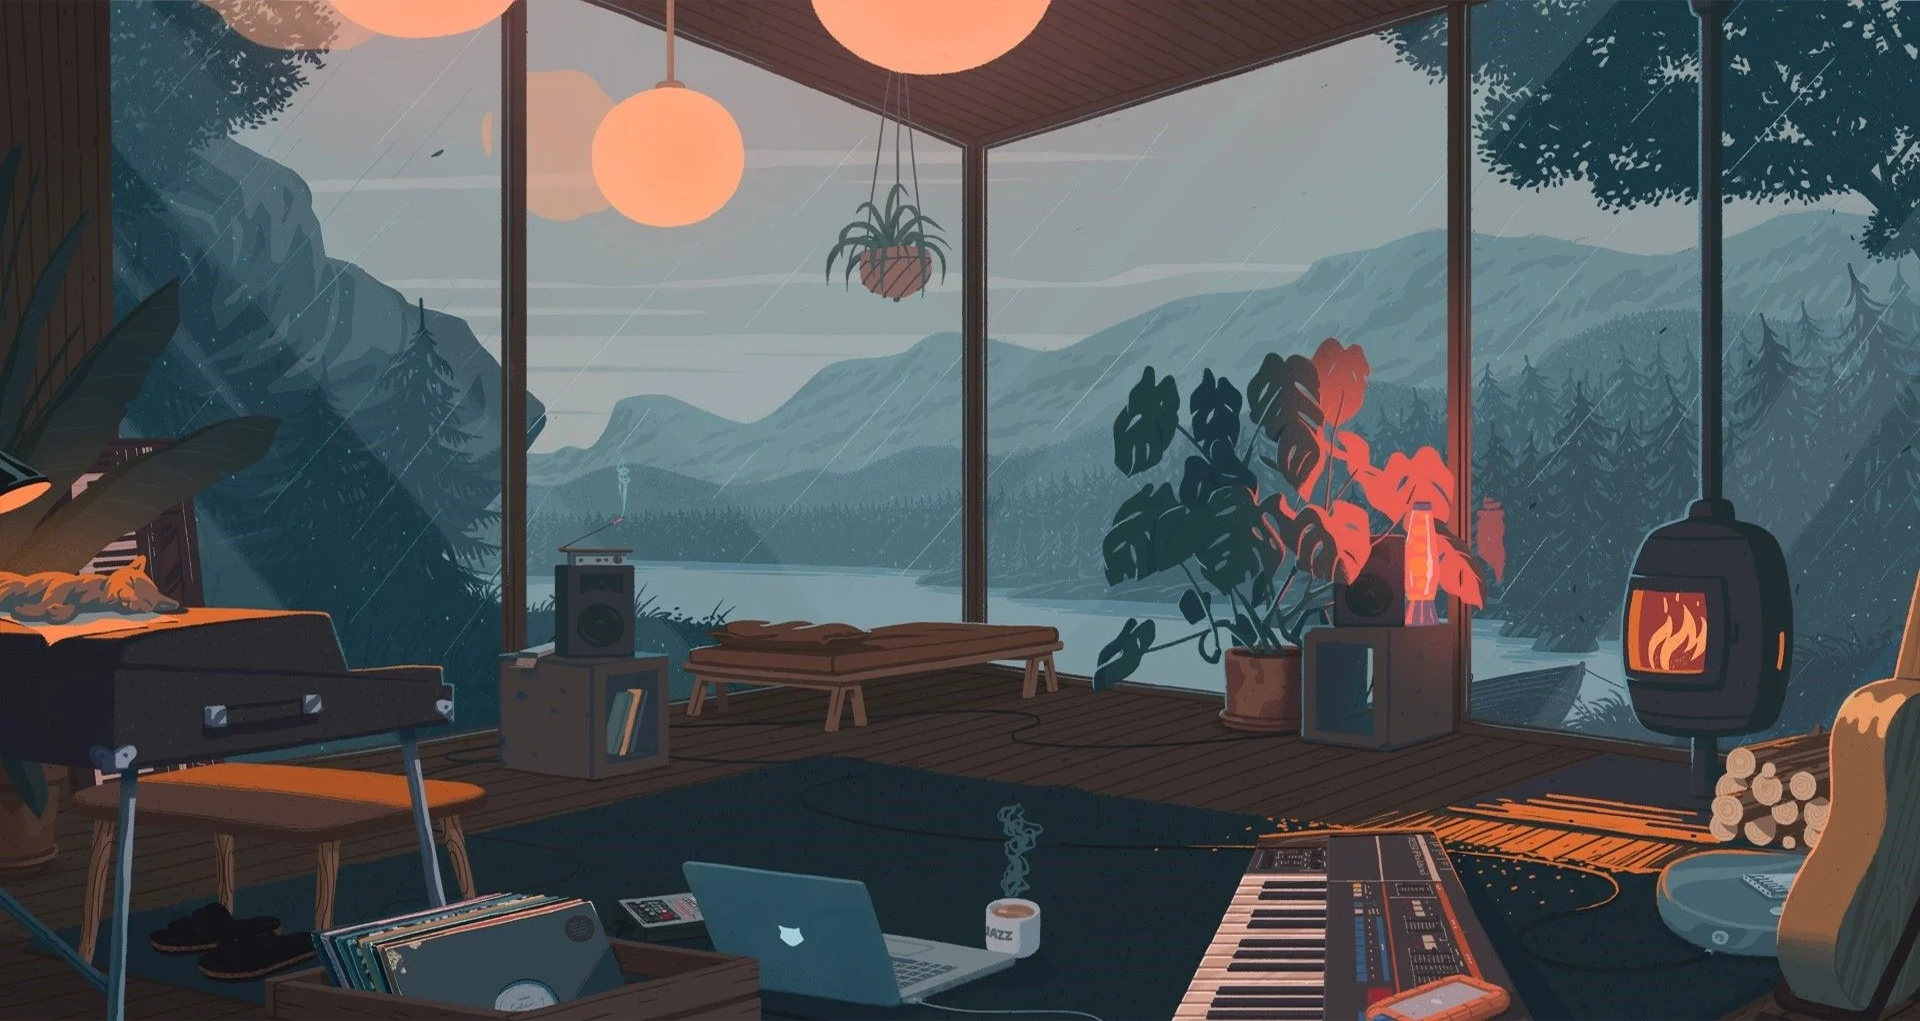
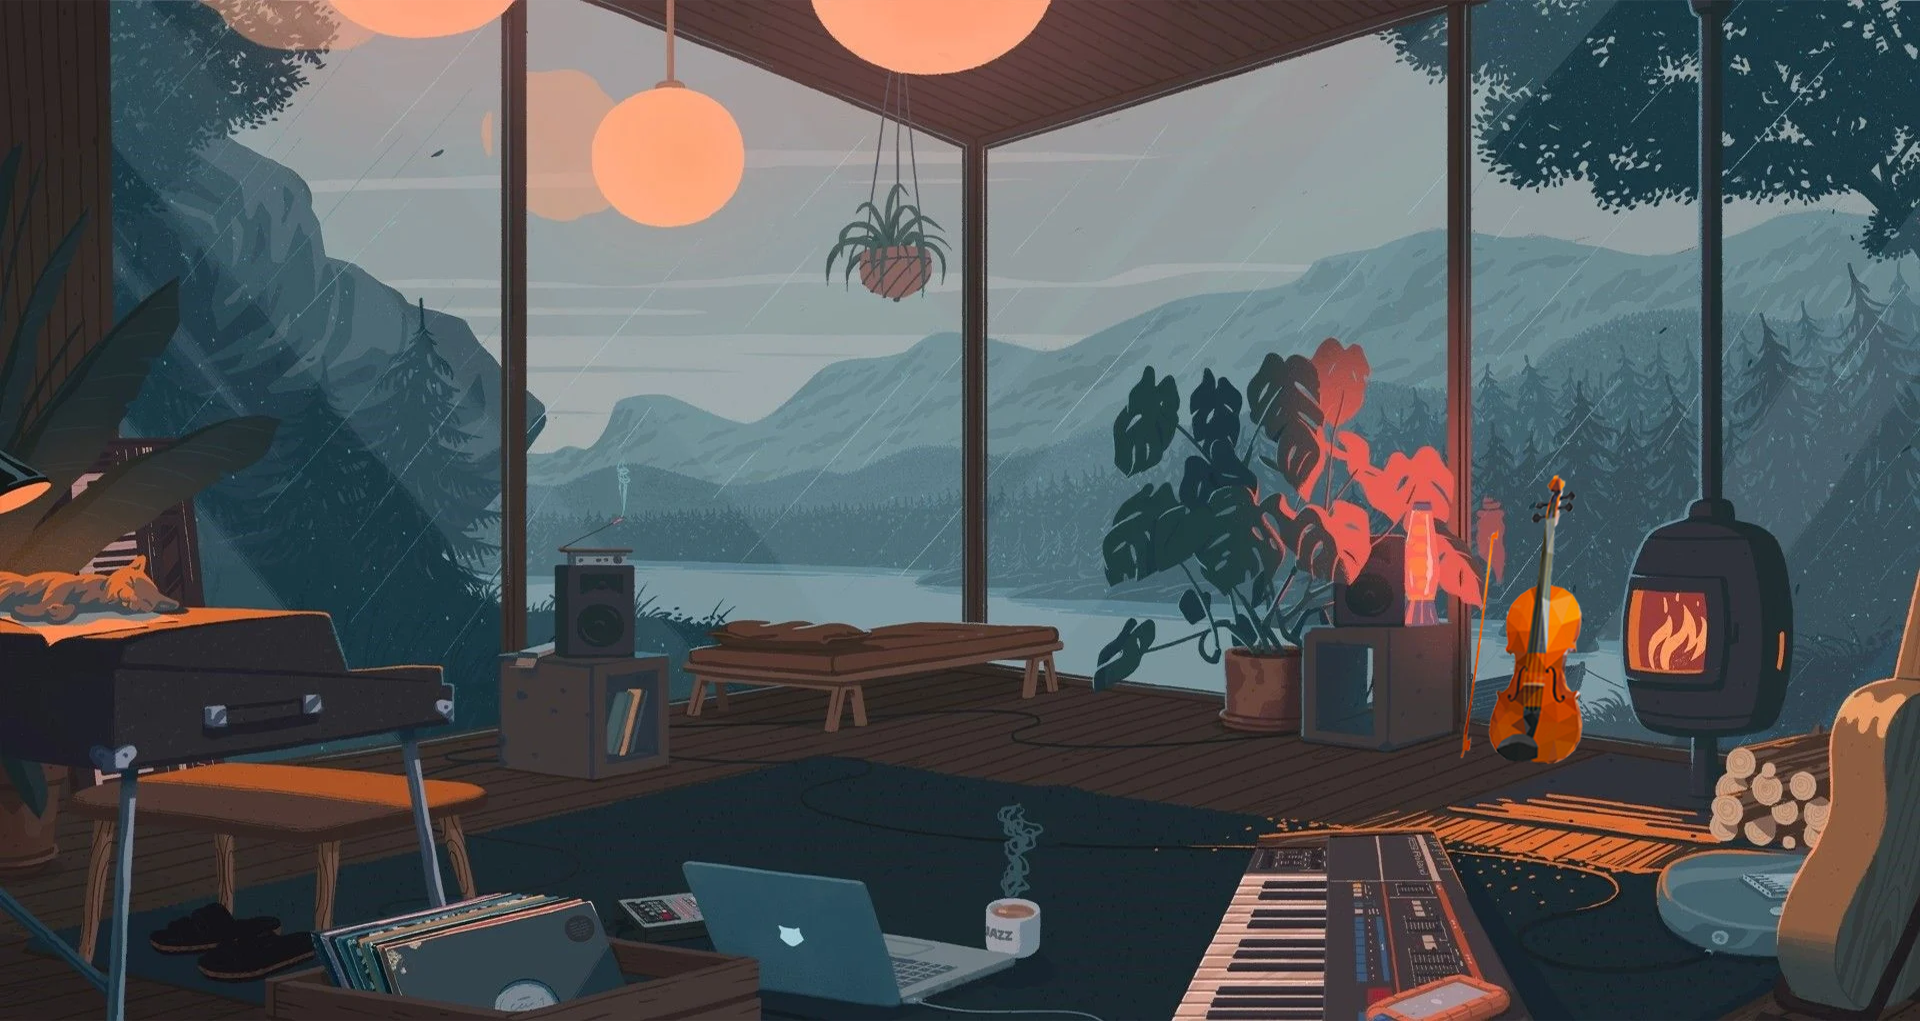
added journal page

Changed region(s): [[0.75, 0.4554, 0.8438, 0.7591]]

diff --git a/arrays.html b/arrays.html
@@ -1,0 +1,135 @@
+<!DOCTYPE html>
+<html>
+<head>
+<style type="text/css">
+	#box{
+		position:absolute;
+	}
+	.square{
+		height: 100px;
+		width: 100px;
+		
+	}
+	.circle{
+		height: 100px;
+		width: 100px;
+border-radius: 50%;		
+
+	}
+	.rectangle {
+  width: 200px;
+  height: 100px;
+  background: orange;
+}
+
+    .oval {
+      width: 200px;
+      height: 100px;
+
+      border-radius: 100px / 50px;
+    }
+
+      .triangle {
+      width: 0;
+      height: 0;
+      border-left: 50px solid transparent;
+      border-right: 50px solid transparent;
+      border-bottom: 100px solid red;
+      background-color: #ff000000;
+    }
+  
+    
+     
+    .heart {
+      position: relative;
+      width: 100px;
+      height: 90px;
+    }
+    .heart:before,
+    .heart:after {
+      position: absolute;
+      content: "";
+      left: 50px;
+      top: 0;
+      width: 50px;
+      height: 80px;
+      background: red;
+      border-radius: 50px 50px 0 0;
+      transform: rotate(-45deg);
+      transform-origin: 0 100%;
+    }
+    .heart:after {
+      left: 0;
+      transform: rotate(45deg);
+      transform-origin: 100% 100%;
+    }
+    
+
+</style>
+	<title></title>
+</head>
+<body>
+<div id="box"></div>
+
+<script type="text/javascript">
+	var shape=["square","triangle","circle","rectangle","oval","heart"]
+		
+
+	var color=["red","green","blue","yellow","orange","cyan","teal","purple","skyblue","cadetblue","seagreen","maroon","darkorange","magenta"]
+
+
+
+	document.addEventListener("click", function click(event){
+	document.getElementById("box").classList.remove("square");
+	document.getElementById("box").classList.remove("circle");
+	document.getElementById("box").classList.remove("triangle");
+	document.getElementById("box").classList.remove("rectangle");
+	document.getElementById("box").classList.remove("oval");
+	document.getElementById("box").classList.remove("heart");
+	document.getElementById("box").classList.remove("undefined");
+
+
+
+
+
+		box.classList.add(shape[Math.round(Math.random()*6)])
+		console.log(box.className)
+		console.log(box.style.left=event.clientX-50+"px",
+		box.style.top=event.clientY-50+"px")
+				
+
+
+			console.log(event.clientX,event.clientY)
+		box.style.left = event.clientX-50+"px"
+		box.style.top = event.clientY-50+"px"
+		if(box.className=="triangle"){
+		box.style.borderBottomColor=color[Math.round(Math.random()*14)];
+		box.style.background="#ff000000";
+		}
+		if(box.className=="heart"){
+		box.style.background=color[Math.round(Math.random()*14)]
+		}
+		if(box.className!="heart"&&box.className!="triangle"){
+		box.style.backgroundColor=color[Math.round(Math.random()*14)]
+	}
+
+		
+
+	})
+	document.addEventListener("keydown", function press(event){
+		console.log(event)
+		if (event.key=='b'){
+			box.style.backgroundColor="purple"
+		}
+	document.addEventListener("keyup",function release(event){
+		if (event.key=='b'){
+			box.style.backgroundColor="cadetblue"
+		}
+
+	})
+
+	})
+
+</script>
+</body>
+</html>

diff --git a/projects.html b/projects.html
@@ -300,6 +300,18 @@ width: 500px;
 		left: 5px;
 		border-radius: 60%;
 }
+#thumb7{
+	width: 400px;
+		height: 400px;
+		background-image: url(thumb7.png);
+		background-position: center;
+		background-size: cover;
+		z-index: 4;
+		position: relative;
+		top: 5px;
+		left: 5px;
+		border-radius: 60%;
+}
 </style>
 
 
@@ -330,6 +342,9 @@ width: 500px;
 	<section id="sixthsec"></section>
 	<a href="squarequilt.html"><div id=border4><div id=thumb6></div></div></a>
 	<div id=description5><center>The <strong>Quilt </strong> <a href="squarequilt.html"><span id=proj4>Project</span></a> is an interactive fun, colorful project featuring many squares that the user can change the color of. This project uses for loops in javascript to create gradients of color!</center></div>
+	<section id="seventhsec"></section>
+	<a href="arrays.html"><div id=border4><div id=thumb7></div></div></a>
+	<div id=description5><center>The <strong>Arrays</strong> <a href="arrays.html"><span id=proj4>Project</span></a> is a project that spanws random shaps with random colors on click. Have fun!</center></div>
 
 <script type="text/javascript">
 	

diff --git a/christmascard.html b/christmascard.html
@@ -8,7 +8,7 @@
 <meta name="viewport" content="width=device-width, initial-scale=1.0">
 
 	<style type="text/css">
-	
+	html{scroll-behavior: smooth;}
 	body{
 		margin:0px;
 
@@ -102,6 +102,9 @@
 		z-index:4;
 		margin:0px;
 		}
+	#newyear{
+		background-color:blue;
+	}
 	@media only screen and (max-width: 600px){
 		section{
 			height:100vh;
@@ -176,11 +179,18 @@
 	<img id="christmastree" src="christmastree.gif">
 	<img id='santa' src="santa.png">
 	<img id='presentred' src="presentred.png">
-	<img id='presentorange' src="presentorange.png">
+	<a href='#newyear'><img id='presentorange' src="presentorange.png"></a>
 	<img id='presentblue' src="presentblue.png">
 </section>
 </div>
-<div></div> 
+
+<div id='newyear' class='section-container'>
+	<section>
+
+
+	</section>
+	
+</div> 
 
 
 
@@ -221,6 +231,9 @@ santa.addEventListener("click", function santaplaymusic(event){
 	if(presentvisible==1 && santacounter%2==0){
 		music.pause()
 	}
+newyear.addEventListener('touchstart',function(){
+	newyear.style.backgroundColor='green'
+})
 
 
 

diff --git a/December.html b/December.html
@@ -1,0 +1,33 @@
+<!DOCTYPE html>
+<html>
+<head>
+	
+	<title></title>
+	<style type="text/css">
+		body{
+			background-color: #C30F16;
+		}
+		
+	
+		#text{
+			font-size: 15px;
+
+
+
+		}
+		
+		#Title{
+			font-family:cursive;
+
+
+		}
+
+	</style>
+</head>
+<body>
+<a href="journal2.html">Back to Journal Page </a>
+<h1><span id="Title"><center><strong>December</strong></center></span></h1>
+<h3><stong>Dec 8th 2022</stong></h3>
+<p><span id="text">I have just finished my arrays project! I did struggle a bit with styling through javascript. I used lots of prewritten code so it was a bit unfamiliar at first, but it was satisfying when I understood. Overall, it works okay, but I was unable to fix the heart shape background shape. My christmas card+other things link is c26lr1.github.io/christmascard.html</span></p>
+</body>
+</html>

diff --git a/Journal2.html b/Journal2.html
@@ -122,6 +122,23 @@
 			background-size: cover;
 		
 		}
+		#violin1{
+			height:225px;
+			width:100px;
+			opacity:0.5;
+			position:relative;
+			top:16px;
+			left:76%;
+		}
+		#violin2{
+	
+			height:225px;
+			width:100px;
+			opacity:0.5;
+			position:relative;
+
+			
+		}
 		
 		
 
@@ -163,8 +180,14 @@
 		</a>
 	
 		</div>
+ <div id='violin1'>
+	<a href="December.html">
+ 	<div id='violin2'>
+ 
 
-
+ 	</div>
+</a>
+ </div>
 <script type="text/javascript">
 	
 	fire.addEventListener('mouseenter', function playaudio(event){

diff --git a/key.html b/key.html
@@ -12,7 +12,8 @@
 Note: Everytime you go to the Journal Page, you must click the "click here" before you start hovering/clicking anything else. After, click anything that moves/ makes a sound when you hover over it. 
 	<br>
 Furnace: October Journal <br>
-Cofee Cup: November Journal
+Cofee Cup: November Journal<br>
+Violin: December Journal
 </div>
 </body>
 </html>
